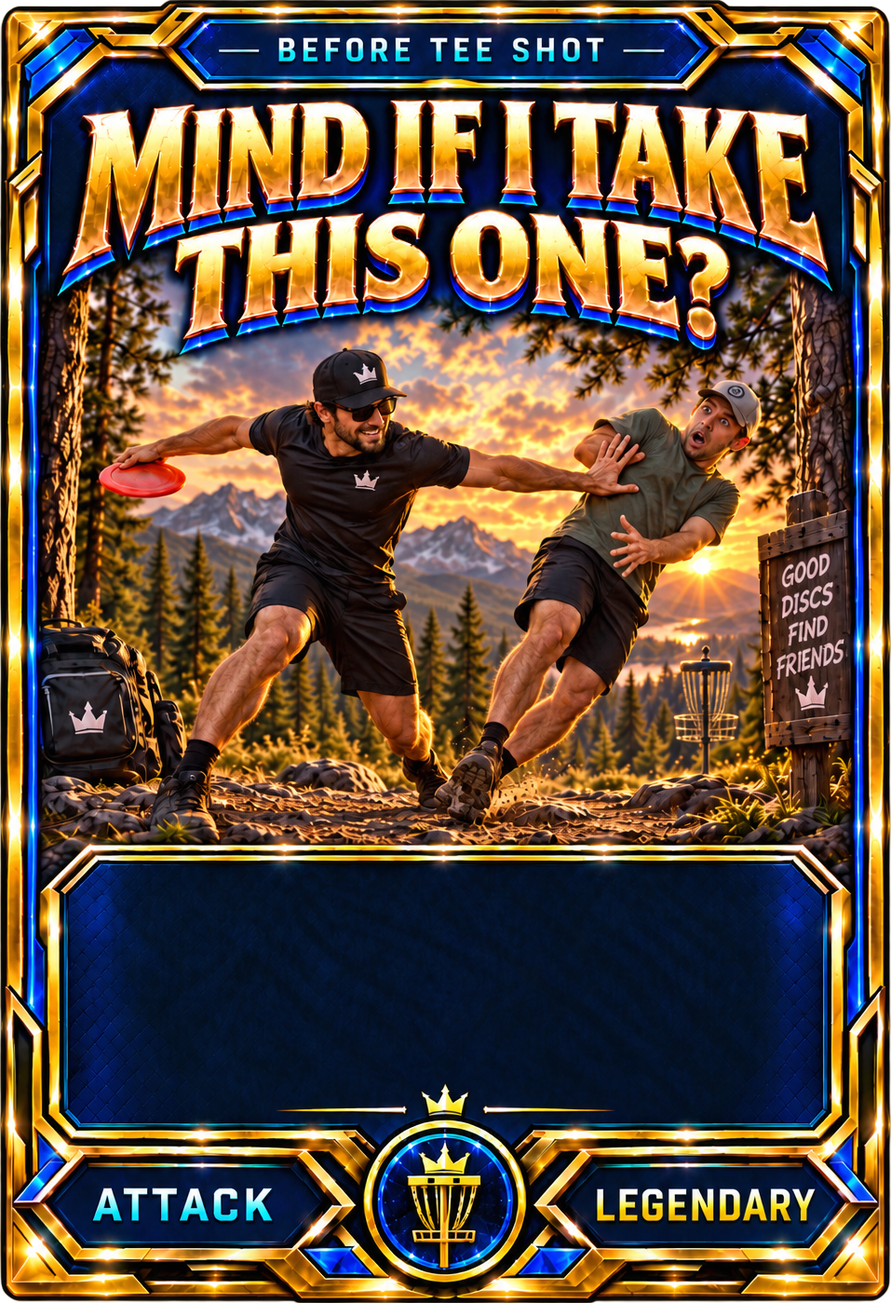
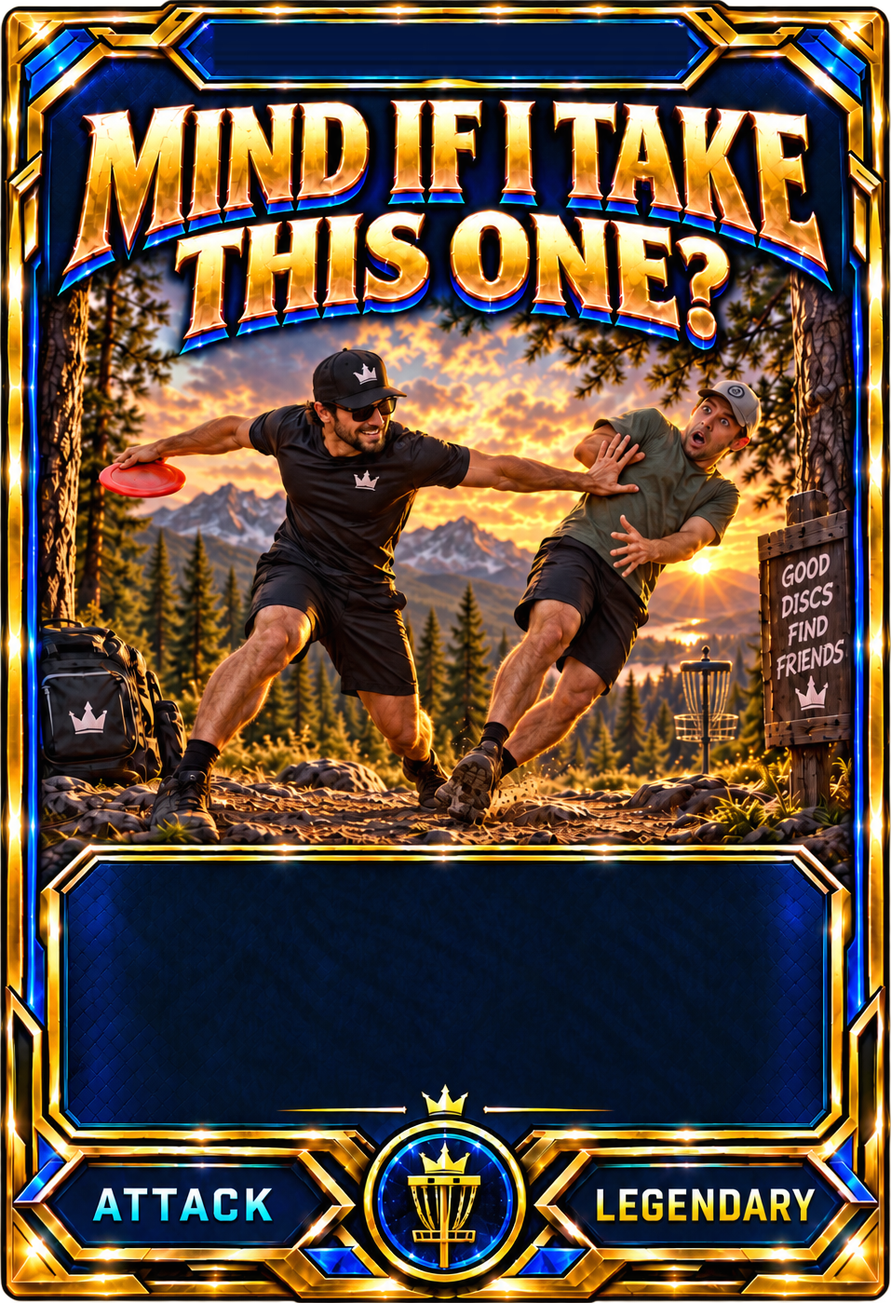
Empty the timing plate on card 61 and let the app fill it
The painting had BEFORE TEE SHOT set into the bar and the card takes a
putt now, which is a Before shot card like every other putt card in the
deck. Rather than paint new words in — wrong again the next time it is
reworded — the plate is emptied and the app draws the timing into it, the
way it already does for every frame card.

Cleared row by row from the plate's own background. Running the fill down
each column from the clean rows above and below would have kept the
plate's horizontal variation, but the lettering very nearly fills the
plate, so those rows sit against its lit rim and every sparkle on them
smeared into a vertical streak. There is far less going on across the
plate than down it, so each row's dark pixels — the background between
its letters — are the honest sample, and the shading survives.

A box can now carry its own side padding. The timing bar's padding is a
percentage, and a percentage padding is measured against the containing
block rather than the element, which suits the tier frames' full-width
bar and collapses a narrower one: this plate is 52.66% of the card with
27% a side, leaving nothing in the middle, and the timing shrank to a
pixel and a third hunting room that was not there.

Swept all 61 afterwards: nothing outside its box.

diff --git a/docs/index.html b/docs/index.html
@@ -1167,7 +1167,7 @@
 <script>
 "use strict";
 
-var DATA = {"handSize":4,"handCap":7,"maxCardsOnOnePlayerPerHole":2,"wheelCost":2,"freeSpinCard":22,"wheelExcludes":[1,3,5,6,12,13,19,20,21,22,23,24,31,34,36,38,42,43,52,55,56,61],"wheelOnly":[],"rarities":[{"id":"common","color":"#E6ECF5","weight":86},{"id":"uncommon","color":"#47D97F","weight":58},{"id":"rare","color":"#4D8BFF","weight":30},{"id":"epic","color":"#B96BFF","weight":18},{"id":"legendary","color":"#FFC72E","weight":9}],"drawLuck":{"last":1.67,"nextToLast":1.52,"midTable":1.1},"timings":["Before shot","Before tee shot","Before all tee","After throw","After all tee","After card","After a hole","Any time"],"cards":[{"id":1,"timing":"Before tee shot","kind":"attack","name":"1v1 Challenge","text":"Challenge someone. It runs until one of you beats the other's score on a hole — a tie settles nothing. The winner gets immunity from all attack cards next hole and banks a mulligan to use on any hole, whenever they need it."},{"id":2,"timing":"Before shot","kind":"attack","rarity":"rare","name":"69% OF THE SPLITS","text":"Force an opponent to straddle putt. Playable any time someone is about to throw a putter."},{"id":3,"timing":"After throw","kind":"attack","name":"AIR HORN!","text":"Heckle an opponent during one of their shots. Reveal and discard this card after."},{"id":4,"timing":"Before shot","kind":"attack","rarity":"epic","name":"Baby Discs","text":"Force an opponent to throw a mini for their upcoming drive or putt. Through the basket floor still counts as in."},{"id":5,"timing":"Any time","kind":"attack","rarity":"uncommon","name":"Bag Boy!","text":"Force an opponent to carry your bag for 3 holes! If they beat you before those 3 holes are up (1st or 2nd hole), they can play one of your cards and you take your bag back."},{"id":6,"timing":"Before tee shot","kind":"attack","rarity":"uncommon","name":"Bag Exchange!","text":"Pick a player to swap bags with. Play until the first bogey by a single player (both bogey is nothing). That player must volunteer as tribute to exchange lies with the other player the next time they go OB/hazard or miss a mando."},{"id":7,"timing":"Before shot","kind":"attack","rarity":"uncommon","name":"Bag Raid!","text":"Choose ANY disc that belongs to anyone. The target player must use that disc for their next shot."},{"id":8,"timing":"After throw","kind":"attack","rarity":"epic","name":"Big Ooof, Bud.","text":"Move an opponent's lie up to 10 paces (30 ft) in any direction, as long as it isn't out of bounds."},{"id":9,"timing":"After throw","kind":"self","rarity":"uncommon","name":"Big Putted!","text":"After making a C2 putt, everyone else must use their left hand on their next putt this hole. (Make sure everyone putts in order this hole if you want to use the card, obviously.)"},{"id":10,"timing":"Before tee shot","kind":"attack","name":"Bizarro Golf!","text":"Force an opponent to drive with a putter and putt with a driver this hole."},{"id":11,"timing":"Before all tee","kind":"self","name":"Call Your Shot","text":"Call CTP. If you win it, you're immune to cards and bad wheel effects next hole, and your next attack card hits every opponent — not you."},{"id":12,"timing":"Any time","kind":"attack","rarity":"rare","name":"Can I Borrow This Card?","text":"Pick anyone you want. Look through their cards and play one on anyone."},{"id":13,"timing":"After card","kind":"react","rarity":"epic","name":"Change Is Good","text":"Hijack a card as it's played and re-aim it at the player of your choice — including the player who played it. Doesn't work on legendary cards."},{"id":14,"timing":"Before shot","kind":"attack","name":"CHRIS SPECIAL!","text":"Force an opponent to throw a tomahawk on the upcoming drive or approach."},{"id":15,"timing":"Before shot","kind":"attack","name":"Close 'Em","text":"Force an opponent to take the next putt with their eyes closed."},{"id":16,"timing":"Before tee shot","kind":"attack","rarity":"uncommon","name":"Code Words!","text":"An opponent can't say \"yes\" or \"no\" this hole. 1 stroke penalty every time they do. ANY variation of the words yes or no counts."},{"id":17,"timing":"Before tee shot","kind":"attack","name":"Jomez Commentator","text":"Another player has to announce every shot you take this hole like they are a commentator. If they forget one, they take +1 stroke."},{"id":18,"timing":"Before tee shot","kind":"attack","rarity":"epic","name":"Dealer's Choice!","text":"Pick the discs every player tees off with this hole. (From their own bag.)"},{"id":19,"timing":"Before tee shot","kind":"dual","name":"Do Not Pass Go","text":"On another player: whoever has the shortest drive on this hole gets no free mulligan to bank while everyone else does. On yourself: play after everyone tees — if you have the shortest drive, throw your 2nd shot with the person that had the farthest drive."},{"id":20,"timing":"After throw","kind":"dual","rarity":"uncommon","name":"Doesn't Look Like a Penalty to Me","text":"Play on a shot that missed a mando or went OB. Instead of actually being OB, in a hazard, or past a mando, it can just be played where it lies, with no penalty at all."},{"id":21,"timing":"After throw","kind":"self","name":"Don't Nice Me!","text":"If any player says any form of \"nice\" as your disc is in flight and it hits a tree, you can move to where your disc landed and throw again for a free stroke."},{"id":22,"timing":"Before tee shot","kind":"group","rarity":"epic","name":"GAMBLE WHEEL!!","text":"Free spin on the GAMBLE WHEEL!! The name doesn't matter — you choose who gets the benefit or the punishment."},{"id":23,"timing":"Before shot","kind":"attack","rarity":"uncommon","name":"Easily Distracted?","text":"Everyone can do anything they want to distract a player while they are putting, but CANNOT touch the player or the disc being putted."},{"id":24,"timing":"After a hole","kind":"self","name":"FIVE FOR YOU, YOU, AND YOU!","text":"Play after you birdie a hole nobody else birdied. Everyone else owes five dollars to the pot!"},{"id":25,"timing":"After throw","kind":"self","rarity":"epic","name":"Foot Wedge!","text":"Move your own lie up to 10 paces (30 ft) in any direction."},{"id":26,"timing":"After throw","kind":"self","rarity":"uncommon","name":"GAMBLE!","text":"Take a second chance at a putt you just missed. Make it and it was a free mulligan. Miss and the second stroke counts too — play whichever disc landed farthest away, then add +1 stroke after the hole ends."},{"id":27,"timing":"After all tee","kind":"self","rarity":"epic","name":"I'll Have What He's Having","text":"After all tee shots, trade lies with an opponent of your choice."},{"id":28,"timing":"Before shot","kind":"dual","rarity":"rare","name":"Globetrotter Shit","text":"On yourself: putt behind the back at no stroke cost. On another player: they putt behind the back and it counts as a normal stroke."},{"id":29,"timing":"Before tee shot","kind":"dual","name":"GOOD GUYS VS. BAD GUYS!","text":"Ask if anyone wants to team up this hole — take your pick. (If nobody says yes, you get 1 free mulligan this hole.) If you get a partner it's 2v2 for this hole, and cards hit both players on each team when played. Winners get a banked mulligan, losers take +1 extra stroke."},{"id":30,"timing":"After throw","kind":"self","rarity":"rare","name":"If the Basket Was There It Woulda Went In","text":"If you hit any metal and it doesn't go in, it counts as a made putt."},{"id":31,"timing":"After all tee","kind":"attack","rarity":"legendary","name":"I'm In Control","text":"You decide who plays whose tee shots. More than one player can be sent to the same lie."},{"id":32,"timing":"Before tee shot","kind":"attack","rarity":"uncommon","name":"It's Like a Stranger Is Doing It!","text":"Force an opponent to take the upcoming drive with their off hand."},{"id":33,"timing":"Before tee shot","kind":"dual","name":"Lefty ON the Box","text":"Your first throw off the box is with your offhand, for free — that's throw 0. The player in last place gets it too. If 2 players are tied for last, they can flip a coin or roll dice to see who gets it."},{"id":34,"timing":"After a hole","kind":"dual","rarity":"epic","name":"Me and You","text":"On yourself: take the best score made on the hole. On another player: they take the worst score made on the hole."},{"id":35,"timing":"Before tee shot","kind":"self","rarity":"uncommon","name":"My Tee Pad Is Over Here!","text":"Use 2 of your discs to mark a new tee for yourself, up to 10 paces (30 ft) from the original. You must pick 1 player to join you — anyone but whoever is in 1st."},{"id":36,"timing":"After card","kind":"react","rarity":"rare","name":"No Way","text":"Cancel any card just played except a legendary. That card goes to the discard pile."},{"id":37,"timing":"Before tee shot","kind":"attack","rarity":"rare","name":"New mando on this hole, bud.","text":"Choose a reasonable object the target player must pass on a side you specify."},{"id":38,"timing":"Any time","kind":"dual","rarity":"epic","name":"Not Today!","text":"Remove any and all card effects currently on you, or use it on another player to cancel the effects on them."},{"id":39,"timing":"Before tee shot","kind":"attack","rarity":"uncommon","name":"One Disc Wonder!","text":"Force an opponent to play the hole with only 1 DISC this hole! (If someone already gave them THE CURD!, the TILT or the \"beater\", that counts as their 1 disc.)"},{"id":40,"timing":"Before tee shot","kind":"attack","rarity":"rare","name":"Over Sharer","text":"Give everyone a disc from your own bag to tee off with on this hole."},{"id":41,"timing":"Before all tee","kind":"attack","name":"Plant Your Feet!","text":"No run-up on everyone else's tee shot."},{"id":42,"timing":"Any time","kind":"dual","rarity":"rare","name":"Player 2's Turn!","text":"On yourself: retake any shot for free. On another player: force them to re-throw a shot — good or bad, it doesn't matter."},{"id":43,"timing":"After throw","kind":"attack","rarity":"legendary","name":"Prove It","text":"Cancel a shot an opponent just took. They throw again with a different disc of YOUR choice from any bag (not the TILT or the beater). The extra throw counts as a stroke."},{"id":44,"timing":"Before tee shot","kind":"attack","rarity":"rare","name":"Roll It!","text":"Force an opponent to throw a roller on the upcoming drive."},{"id":45,"timing":"Before shot","kind":"dual","rarity":"rare","name":"Shoe Golf","text":"On yourself: putt with your own shoe at no stroke cost. On another player: they putt with a shoe and it still counts as a stroke. If they refuse to take their shoe off, they take +1 stroke after the hole."},{"id":46,"timing":"Before shot","kind":"attack","name":"Forehand only!","text":"Force an opponent to throw a forehand on the upcoming drive or approach."},{"id":47,"timing":"Before shot","kind":"dual","rarity":"uncommon","name":"That's Definitely a Gimme","text":"Pick up a putt as a gimme, as long as it's inside C1 — you definitely woulda made it. The player in last place gets one too. If 2 players are tied for last, they can flip a coin or roll dice to see who gets it."},{"id":48,"timing":"Before tee shot","kind":"attack","rarity":"uncommon","name":"Too Many Choices","text":"Pick 2 discs out of 1 person's bag. They choose 1 to tee off with."},{"id":49,"timing":"Before tee shot","kind":"self","name":"Tree Insurance","text":"Play before your tee shot. If you hit a tree, take a free mulligan."},{"id":50,"timing":"Before shot","kind":"attack","rarity":"rare","name":"Trust Me Bro","text":"Give another player advice for their tee shot. They have to follow it as best they can. (Somewhat reasonable advice — don't tell them something like throw it backwards.)"},{"id":51,"timing":"Before shot","kind":"attack","rarity":"rare","name":"Turbo Time","text":"All opponents in C1 must turbo putt their next shot."},{"id":52,"timing":"Before tee shot","kind":"group","name":"WALK IT DOWN!!","text":"No other cards can be played once this hits the table. Everyone tees immediately from anywhere near the tee pad — no throw order. First and second to finish get birdie, third gets par, last gets bogey. No running, and no calling foot faults."},{"id":53,"timing":"After throw","kind":"attack","name":"Walk of Shame","text":"After a missed putt inside C1, that player carries their putter in either hand until they finish the next hole. (They can putt with it.) If they drop it or put it in the bag, +1 stroke."},{"id":54,"timing":"Before tee shot","kind":"attack","rarity":"legendary","name":"Your Tee Pad Is Over There!","text":"Use 2 of your discs to mark a new tee for everyone else, up to 10 paces (30 ft) from the original. They all tee from it."},{"id":55,"timing":"After throw","kind":"attack","rarity":"epic","name":"I Think It's Broke","text":"Play on another player that just hit a tree. They lose that disc — they can't throw it again for the rest of the round. If they forget and throw it again, it's +1 stroke."},{"id":56,"timing":"After card","kind":"react","rarity":"epic","name":"UNO REVERSO","text":"Reverse any cards that effect you back to the person that used the card. (Doesn't work on wheel spins or legendary cards.)"},{"id":57,"timing":"Before all tee","kind":"group","rarity":"legendary","name":"LONE WOLF!","text":"Cards played by the wolf effect everyone else! A lone wolf win gives him the right to go through everyone's cards and play 1 card from everyone's hand that effects that player. If the 3 players win then nobody cares, cuz 3 people should beat 1 every time — but they can roll dice to see who gets 1 free banked mulligan."},{"id":58,"timing":"Before tee shot","kind":"attack","rarity":"uncommon","name":"PUT EM ON TILT","text":"Force an opponent to play the entire hole with the TILT!"},{"id":59,"timing":"Before tee shot","kind":"attack","rarity":"legendary","name":"DESTINATION FUCKED!","text":"Force an opponent to play the entire hole with the \"beater\". Whoever played the card gets 30 seconds to abuse the disc before they tee off. You must tee off within 5 seconds of being handed the disc, and ZERO attempts to repair it are allowed. Otherwise +1 stroke."},{"id":60,"timing":"Before all tee","kind":"attack","rarity":"uncommon","name":"The Curd!","text":"Everyone rolls 2 dice, including whoever played this card. The lowest roll uses the cottage cheese lid as their driver this hole."},{"id":61,"timing":"Before tee shot","kind":"attack","rarity":"legendary","name":"MIND IF I TAKE THIS ONE?","text":"Take the next putt for an opponent. (No full send drivers.)"}]};
+var DATA = {"handSize":4,"handCap":7,"maxCardsOnOnePlayerPerHole":2,"wheelCost":2,"freeSpinCard":22,"wheelExcludes":[1,3,5,6,12,13,19,20,21,22,23,24,31,34,36,38,42,43,52,55,56,61],"wheelOnly":[],"rarities":[{"id":"common","color":"#E6ECF5","weight":86},{"id":"uncommon","color":"#47D97F","weight":58},{"id":"rare","color":"#4D8BFF","weight":30},{"id":"epic","color":"#B96BFF","weight":18},{"id":"legendary","color":"#FFC72E","weight":9}],"drawLuck":{"last":1.67,"nextToLast":1.52,"midTable":1.1},"timings":["Before shot","Before tee shot","Before all tee","After throw","After all tee","After card","After a hole","Any time"],"cards":[{"id":1,"timing":"Before tee shot","kind":"attack","name":"1v1 Challenge","text":"Challenge someone. It runs until one of you beats the other's score on a hole — a tie settles nothing. The winner gets immunity from all attack cards next hole and banks a mulligan to use on any hole, whenever they need it."},{"id":2,"timing":"Before shot","kind":"attack","rarity":"rare","name":"69% OF THE SPLITS","text":"Force an opponent to straddle putt. Playable any time someone is about to throw a putter."},{"id":3,"timing":"After throw","kind":"attack","name":"AIR HORN!","text":"Heckle an opponent during one of their shots. Reveal and discard this card after."},{"id":4,"timing":"Before shot","kind":"attack","rarity":"epic","name":"Baby Discs","text":"Force an opponent to throw a mini for their upcoming drive or putt. Through the basket floor still counts as in."},{"id":5,"timing":"Any time","kind":"attack","rarity":"uncommon","name":"Bag Boy!","text":"Force an opponent to carry your bag for 3 holes! If they beat you before those 3 holes are up (1st or 2nd hole), they can play one of your cards and you take your bag back."},{"id":6,"timing":"Before tee shot","kind":"attack","rarity":"uncommon","name":"Bag Exchange!","text":"Pick a player to swap bags with. Play until the first bogey by a single player (both bogey is nothing). That player must volunteer as tribute to exchange lies with the other player the next time they go OB/hazard or miss a mando."},{"id":7,"timing":"Before shot","kind":"attack","rarity":"uncommon","name":"Bag Raid!","text":"Choose ANY disc that belongs to anyone. The target player must use that disc for their next shot."},{"id":8,"timing":"After throw","kind":"attack","rarity":"epic","name":"Big Ooof, Bud.","text":"Move an opponent's lie up to 10 paces (30 ft) in any direction, as long as it isn't out of bounds."},{"id":9,"timing":"After throw","kind":"self","rarity":"uncommon","name":"Big Putted!","text":"After making a C2 putt, everyone else must use their left hand on their next putt this hole. (Make sure everyone putts in order this hole if you want to use the card, obviously.)"},{"id":10,"timing":"Before tee shot","kind":"attack","name":"Bizarro Golf!","text":"Force an opponent to drive with a putter and putt with a driver this hole."},{"id":11,"timing":"Before all tee","kind":"self","name":"Call Your Shot","text":"Call CTP. If you win it, you're immune to cards and bad wheel effects next hole, and your next attack card hits every opponent — not you."},{"id":12,"timing":"Any time","kind":"attack","rarity":"rare","name":"Can I Borrow This Card?","text":"Pick anyone you want. Look through their cards and play one on anyone."},{"id":13,"timing":"After card","kind":"react","rarity":"epic","name":"Change Is Good","text":"Hijack a card as it's played and re-aim it at the player of your choice — including the player who played it. Doesn't work on legendary cards."},{"id":14,"timing":"Before shot","kind":"attack","name":"CHRIS SPECIAL!","text":"Force an opponent to throw a tomahawk on the upcoming drive or approach."},{"id":15,"timing":"Before shot","kind":"attack","name":"Close 'Em","text":"Force an opponent to take the next putt with their eyes closed."},{"id":16,"timing":"Before tee shot","kind":"attack","rarity":"uncommon","name":"Code Words!","text":"An opponent can't say \"yes\" or \"no\" this hole. 1 stroke penalty every time they do. ANY variation of the words yes or no counts."},{"id":17,"timing":"Before tee shot","kind":"attack","name":"Jomez Commentator","text":"Another player has to announce every shot you take this hole like they are a commentator. If they forget one, they take +1 stroke."},{"id":18,"timing":"Before tee shot","kind":"attack","rarity":"epic","name":"Dealer's Choice!","text":"Pick the discs every player tees off with this hole. (From their own bag.)"},{"id":19,"timing":"Before tee shot","kind":"dual","name":"Do Not Pass Go","text":"On another player: whoever has the shortest drive on this hole gets no free mulligan to bank while everyone else does. On yourself: play after everyone tees — if you have the shortest drive, throw your 2nd shot with the person that had the farthest drive."},{"id":20,"timing":"After throw","kind":"dual","rarity":"uncommon","name":"Doesn't Look Like a Penalty to Me","text":"Play on a shot that missed a mando or went OB. Instead of actually being OB, in a hazard, or past a mando, it can just be played where it lies, with no penalty at all."},{"id":21,"timing":"After throw","kind":"self","name":"Don't Nice Me!","text":"If any player says any form of \"nice\" as your disc is in flight and it hits a tree, you can move to where your disc landed and throw again for a free stroke."},{"id":22,"timing":"Before tee shot","kind":"group","rarity":"epic","name":"GAMBLE WHEEL!!","text":"Free spin on the GAMBLE WHEEL!! The name doesn't matter — you choose who gets the benefit or the punishment."},{"id":23,"timing":"Before shot","kind":"attack","rarity":"uncommon","name":"Easily Distracted?","text":"Everyone can do anything they want to distract a player while they are putting, but CANNOT touch the player or the disc being putted."},{"id":24,"timing":"After a hole","kind":"self","name":"FIVE FOR YOU, YOU, AND YOU!","text":"Play after you birdie a hole nobody else birdied. Everyone else owes five dollars to the pot!"},{"id":25,"timing":"After throw","kind":"self","rarity":"epic","name":"Foot Wedge!","text":"Move your own lie up to 10 paces (30 ft) in any direction."},{"id":26,"timing":"After throw","kind":"self","rarity":"uncommon","name":"GAMBLE!","text":"Take a second chance at a putt you just missed. Make it and it was a free mulligan. Miss and the second stroke counts too — play whichever disc landed farthest away, then add +1 stroke after the hole ends."},{"id":27,"timing":"After all tee","kind":"self","rarity":"epic","name":"I'll Have What He's Having","text":"After all tee shots, trade lies with an opponent of your choice."},{"id":28,"timing":"Before shot","kind":"dual","rarity":"rare","name":"Globetrotter Shit","text":"On yourself: putt behind the back at no stroke cost. On another player: they putt behind the back and it counts as a normal stroke."},{"id":29,"timing":"Before tee shot","kind":"dual","name":"GOOD GUYS VS. BAD GUYS!","text":"Ask if anyone wants to team up this hole — take your pick. (If nobody says yes, you get 1 free mulligan this hole.) If you get a partner it's 2v2 for this hole, and cards hit both players on each team when played. Winners get a banked mulligan, losers take +1 extra stroke."},{"id":30,"timing":"After throw","kind":"self","rarity":"rare","name":"If the Basket Was There It Woulda Went In","text":"If you hit any metal and it doesn't go in, it counts as a made putt."},{"id":31,"timing":"After all tee","kind":"attack","rarity":"legendary","name":"I'm In Control","text":"You decide who plays whose tee shots. More than one player can be sent to the same lie."},{"id":32,"timing":"Before tee shot","kind":"attack","rarity":"uncommon","name":"It's Like a Stranger Is Doing It!","text":"Force an opponent to take the upcoming drive with their off hand."},{"id":33,"timing":"Before tee shot","kind":"dual","name":"Lefty ON the Box","text":"Your first throw off the box is with your offhand, for free — that's throw 0. The player in last place gets it too. If 2 players are tied for last, they can flip a coin or roll dice to see who gets it."},{"id":34,"timing":"After a hole","kind":"dual","rarity":"epic","name":"Me and You","text":"On yourself: take the best score made on the hole. On another player: they take the worst score made on the hole."},{"id":35,"timing":"Before tee shot","kind":"self","rarity":"uncommon","name":"My Tee Pad Is Over Here!","text":"Use 2 of your discs to mark a new tee for yourself, up to 10 paces (30 ft) from the original. You must pick 1 player to join you — anyone but whoever is in 1st."},{"id":36,"timing":"After card","kind":"react","rarity":"rare","name":"No Way","text":"Cancel any card just played except a legendary. That card goes to the discard pile."},{"id":37,"timing":"Before tee shot","kind":"attack","rarity":"rare","name":"New mando on this hole, bud.","text":"Choose a reasonable object the target player must pass on a side you specify."},{"id":38,"timing":"Any time","kind":"dual","rarity":"epic","name":"Not Today!","text":"Remove any and all card effects currently on you, or use it on another player to cancel the effects on them."},{"id":39,"timing":"Before tee shot","kind":"attack","rarity":"uncommon","name":"One Disc Wonder!","text":"Force an opponent to play the hole with only 1 DISC this hole! (If someone already gave them THE CURD!, the TILT or the \"beater\", that counts as their 1 disc.)"},{"id":40,"timing":"Before tee shot","kind":"attack","rarity":"rare","name":"Over Sharer","text":"Give everyone a disc from your own bag to tee off with on this hole."},{"id":41,"timing":"Before all tee","kind":"attack","name":"Plant Your Feet!","text":"No run-up on everyone else's tee shot."},{"id":42,"timing":"Any time","kind":"dual","rarity":"rare","name":"Player 2's Turn!","text":"On yourself: retake any shot for free. On another player: force them to re-throw a shot — good or bad, it doesn't matter."},{"id":43,"timing":"After throw","kind":"attack","rarity":"legendary","name":"Prove It","text":"Cancel a shot an opponent just took. They throw again with a different disc of YOUR choice from any bag (not the TILT or the beater). The extra throw counts as a stroke."},{"id":44,"timing":"Before tee shot","kind":"attack","rarity":"rare","name":"Roll It!","text":"Force an opponent to throw a roller on the upcoming drive."},{"id":45,"timing":"Before shot","kind":"dual","rarity":"rare","name":"Shoe Golf","text":"On yourself: putt with your own shoe at no stroke cost. On another player: they putt with a shoe and it still counts as a stroke. If they refuse to take their shoe off, they take +1 stroke after the hole."},{"id":46,"timing":"Before shot","kind":"attack","name":"Forehand only!","text":"Force an opponent to throw a forehand on the upcoming drive or approach."},{"id":47,"timing":"Before shot","kind":"dual","rarity":"uncommon","name":"That's Definitely a Gimme","text":"Pick up a putt as a gimme, as long as it's inside C1 — you definitely woulda made it. The player in last place gets one too. If 2 players are tied for last, they can flip a coin or roll dice to see who gets it."},{"id":48,"timing":"Before tee shot","kind":"attack","rarity":"uncommon","name":"Too Many Choices","text":"Pick 2 discs out of 1 person's bag. They choose 1 to tee off with."},{"id":49,"timing":"Before tee shot","kind":"self","name":"Tree Insurance","text":"Play before your tee shot. If you hit a tree, take a free mulligan."},{"id":50,"timing":"Before shot","kind":"attack","rarity":"rare","name":"Trust Me Bro","text":"Give another player advice for their tee shot. They have to follow it as best they can. (Somewhat reasonable advice — don't tell them something like throw it backwards.)"},{"id":51,"timing":"Before shot","kind":"attack","rarity":"rare","name":"Turbo Time","text":"All opponents in C1 must turbo putt their next shot."},{"id":52,"timing":"Before tee shot","kind":"group","name":"WALK IT DOWN!!","text":"No other cards can be played once this hits the table. Everyone tees immediately from anywhere near the tee pad — no throw order. First and second to finish get birdie, third gets par, last gets bogey. No running, and no calling foot faults."},{"id":53,"timing":"After throw","kind":"attack","name":"Walk of Shame","text":"After a missed putt inside C1, that player carries their putter in either hand until they finish the next hole. (They can putt with it.) If they drop it or put it in the bag, +1 stroke."},{"id":54,"timing":"Before tee shot","kind":"attack","rarity":"legendary","name":"Your Tee Pad Is Over There!","text":"Use 2 of your discs to mark a new tee for everyone else, up to 10 paces (30 ft) from the original. They all tee from it."},{"id":55,"timing":"After throw","kind":"attack","rarity":"epic","name":"I Think It's Broke","text":"Play on another player that just hit a tree. They lose that disc — they can't throw it again for the rest of the round. If they forget and throw it again, it's +1 stroke."},{"id":56,"timing":"After card","kind":"react","rarity":"epic","name":"UNO REVERSO","text":"Reverse any cards that effect you back to the person that used the card. (Doesn't work on wheel spins or legendary cards.)"},{"id":57,"timing":"Before all tee","kind":"group","rarity":"legendary","name":"LONE WOLF!","text":"Cards played by the wolf effect everyone else! A lone wolf win gives him the right to go through everyone's cards and play 1 card from everyone's hand that effects that player. If the 3 players win then nobody cares, cuz 3 people should beat 1 every time — but they can roll dice to see who gets 1 free banked mulligan."},{"id":58,"timing":"Before tee shot","kind":"attack","rarity":"uncommon","name":"PUT EM ON TILT","text":"Force an opponent to play the entire hole with the TILT!"},{"id":59,"timing":"Before tee shot","kind":"attack","rarity":"legendary","name":"DESTINATION FUCKED!","text":"Force an opponent to play the entire hole with the \"beater\". Whoever played the card gets 30 seconds to abuse the disc before they tee off. You must tee off within 5 seconds of being handed the disc, and ZERO attempts to repair it are allowed. Otherwise +1 stroke."},{"id":60,"timing":"Before all tee","kind":"attack","rarity":"uncommon","name":"The Curd!","text":"Everyone rolls 2 dice, including whoever played this card. The lowest roll uses the cottage cheese lid as their driver this hole."},{"id":61,"timing":"Before shot","kind":"attack","rarity":"legendary","name":"MIND IF I TAKE THIS ONE?","text":"Take the next putt for an opponent. (No full send drivers.)"}]};
 var CARDS = DATA.cards;
 var BY_ID = {};
 CARDS.forEach(function (c) { BY_ID[c.id] = c; });
@@ -1217,7 +1217,7 @@ var BUILT_IN_COURSES = [{"name":"W.S. Gibbs Memorial Disc Golf Course — White/
 var CARD_ART = {"31":"assets/card_31.png","43":"assets/card_43.png","54":"assets/card_54.png","57":"assets/card_57.png","59":"assets/card_59.png","61":"assets/card_61.png"};
 /* Where a painting leaves an empty panel for the card's own words, as
    fractions of the picture. Art without one keeps whatever it has painted. */
-var ART_BOXES = {"31":{"x":0.1065,"y":0.6841,"w":0.786,"h":0.1319,"ar":0.7347},"43":{"x":0.1054,"y":0.7005,"w":0.7902,"h":0.1171,"ar":0.7242},"54":{"x":0.1065,"y":0.6968,"w":0.7889,"h":0.1286,"ar":0.723},"57":{"x":0.1061,"y":0.6655,"w":0.7877,"h":0.1597,"ar":0.7453},"59":{"x":0.1037,"y":0.7018,"w":0.7916,"h":0.1287,"ar":0.7187},"61":{"x":0.1014,"y":0.6698,"w":0.7973,"h":0.1565,"ar":0.6841}};
+var ART_BOXES = {"31":{"x":0.1065,"y":0.6841,"w":0.786,"h":0.1319,"ar":0.7347},"43":{"x":0.1054,"y":0.7005,"w":0.7902,"h":0.1171,"ar":0.7242},"54":{"x":0.1065,"y":0.6968,"w":0.7889,"h":0.1286,"ar":0.723},"57":{"x":0.1061,"y":0.6655,"w":0.7877,"h":0.1597,"ar":0.7453},"59":{"x":0.1037,"y":0.7018,"w":0.7916,"h":0.1287,"ar":0.7187},"61":{"ar":0.6841,"text":{"x":0.1014,"y":0.6698,"w":0.7973,"h":0.1565},"timing":{"x":0.2424,"y":0.0214,"w":0.5266,"h":0.03,"pad":0.1115}}};
 /* One frame per rarity, worn by every card of that rarity with no painting of
    its own. The same shape as an art box, plus the picture to wear. */
 var ART_FRAMES = {"common":{"image":"assets/frame_common.png","ar":0.742,"timing":{"x":0.058,"y":0.0445,"w":0.8841,"h":0.0328},"title":{"x":0.058,"y":0.0787,"w":0.8841,"h":0.0897},"text":{"x":0.0914,"y":0.1844,"w":0.8173,"h":0.5729},"kind":{"x":0.0707,"y":0.8732,"w":0.2682,"h":0.0641}},"epic":{"image":"assets/frame_epic.png","ar":0.7082,"timing":{"x":0.0851,"y":0.0938,"w":0.8308,"h":0.026},"title":{"x":0.0851,"y":0.1212,"w":0.8308,"h":0.0726},"text":{"x":0.118,"y":0.2075,"w":0.765,"h":0.4637},"kind":{"x":0.0783,"y":0.8233,"w":0.2573,"h":0.0527}},"rare":{"image":"assets/frame_rare.png","ar":0.7448,"timing":{"x":0.0777,"y":0.0742,"w":0.8436,"h":0.0282},"title":{"x":0.0777,"y":0.1039,"w":0.8436,"h":0.0786},"text":{"x":0.1116,"y":0.1966,"w":0.7759,"h":0.5007},"kind":{"x":0.0657,"y":0.8242,"w":0.259,"h":0.0645}},"uncommon":{"image":"assets/frame_uncommon.png","ar":0.7502,"timing":{"x":0.0601,"y":0.0554,"w":0.8798,"h":0.0318},"title":{"x":0.0601,"y":0.088,"w":0.8798,"h":0.0872},"text":{"x":0.0936,"y":0.1914,"w":0.8128,"h":0.5565},"kind":{"x":0.0709,"y":0.8744,"w":0.2542,"h":0.0628}}};
@@ -1345,10 +1345,20 @@ function artSlots(id) {
   if (b.text || b.title || b.timing || b.kind) return b;
   return { ar: b.ar, text: b };
 }
-/* Where a box sits, as a percentage rectangle. */
+/*
+ * Where a box sits, as a percentage rectangle.
+ *
+ * A box may also carry its own side padding, and does when its bar is narrower
+ * than the tier frames the stylesheet's padding was written for. Given as a
+ * fraction of the card, because that is what a percentage padding is measured
+ * against — the containing block, not the element it is on.
+ */
 function boxStyle(b) {
   return "left:" + (b.x * 100).toFixed(2) + "%;top:" + (b.y * 100).toFixed(2) +
-    "%;width:" + (b.w * 100).toFixed(2) + "%;height:" + (b.h * 100).toFixed(2) + "%";
+    "%;width:" + (b.w * 100).toFixed(2) + "%;height:" + (b.h * 100).toFixed(2) + "%" +
+    (b.pad == null ? "" :
+      ";padding-left:" + (b.pad * 100).toFixed(2) +
+      "%;padding-right:" + (b.pad * 100).toFixed(2) + "%");
 }
 
 /* The picture a card shows and the bars written into it: its own painting when
@@ -1444,7 +1454,7 @@ applyCharacterNames();
  * plus the time it was built. Shown at the foot of the menu and of Settings, so
  * the group can hold two phones side by side and see who needs to reload.
  */
-var APP_VERSION = "v1.404 · 7 Sep 19:51";
+var APP_VERSION = "v1.406 · 7 Sep 20:01";
 function versionLine() {
   // Just the number on screen — the full build stamp stays in APP_VERSION for
   // the lobby's stale-phone check. The arrow beside it goes and looks for a

diff --git a/app/src/main/java/com/chainreaction/data/GameCard.kt b/app/src/main/java/com/chainreaction/data/GameCard.kt
@@ -137,7 +137,7 @@ object CardDeck {
         GameCard(58, "Before tee shot", CardKind.ATTACK, "PUT EM ON TILT", "Force an opponent to play the entire hole with the TILT!"),
         GameCard(59, "Before tee shot", CardKind.ATTACK, "DESTINATION FUCKED!", "Force an opponent to play the entire hole with the \"beater\". Whoever played the card gets 30 seconds to abuse the disc before they tee off. You must tee off within 5 seconds of being handed the disc, and ZERO attempts to repair it are allowed. Otherwise +1 stroke."),
         GameCard(60, "Before all tee", CardKind.ATTACK, "The Curd!", "Everyone rolls 2 dice, including whoever played this card. The lowest roll uses the cottage cheese lid as their driver this hole."),
-        GameCard(61, "Before tee shot", CardKind.ATTACK, "MIND IF I TAKE THIS ONE?", "Take the next putt for an opponent. (No full send drivers.)"),
+        GameCard(61, "Before shot", CardKind.ATTACK, "MIND IF I TAKE THIS ONE?", "Take the next putt for an opponent. (No full send drivers.)"),
     )
 
     private val byId: Map<Int, GameCard> = ALL.associateBy { it.id }

diff --git a/web/template.html b/web/template.html
@@ -1345,10 +1345,20 @@ function artSlots(id) {
   if (b.text || b.title || b.timing || b.kind) return b;
   return { ar: b.ar, text: b };
 }
-/* Where a box sits, as a percentage rectangle. */
+/*
+ * Where a box sits, as a percentage rectangle.
+ *
+ * A box may also carry its own side padding, and does when its bar is narrower
+ * than the tier frames the stylesheet's padding was written for. Given as a
+ * fraction of the card, because that is what a percentage padding is measured
+ * against — the containing block, not the element it is on.
+ */
 function boxStyle(b) {
   return "left:" + (b.x * 100).toFixed(2) + "%;top:" + (b.y * 100).toFixed(2) +
-    "%;width:" + (b.w * 100).toFixed(2) + "%;height:" + (b.h * 100).toFixed(2) + "%";
+    "%;width:" + (b.w * 100).toFixed(2) + "%;height:" + (b.h * 100).toFixed(2) + "%" +
+    (b.pad == null ? "" :
+      ";padding-left:" + (b.pad * 100).toFixed(2) +
+      "%;padding-right:" + (b.pad * 100).toFixed(2) + "%");
 }
 
 /* The picture a card shows and the bars written into it: its own painting when

diff --git a/docs/sw.js b/docs/sw.js
@@ -1,5 +1,5 @@
 /* Generated by web/build.js — do not edit. */
-const PAGE_CACHE = "chainreaction-page-8c47fc2afbb5";
+const PAGE_CACHE = "chainreaction-page-b1cdc22e5c94";
 /* Named once and kept. What is in it is decided file by file, below. */
 const ASSET_CACHE = "chainreaction-assets";
 const PAGE_FILES = [
@@ -38,7 +38,7 @@ const ASSET_HASHES = {
   "assets/card_54.png": "4a8e4a63b747",
   "assets/card_57.png": "4878d6ec0045",
   "assets/card_59.png": "6a19f29f2d43",
-  "assets/card_61.png": "a9cdd0b7c102",
+  "assets/card_61.png": "b9316da3928f",
   "assets/character_01.png": "89a32300c7f8",
   "assets/character_02.png": "322847432237",
   "assets/character_03.png": "4a79a75904d7",

diff --git a/BUILD_SPEC.md b/BUILD_SPEC.md
@@ -198,7 +198,7 @@ Suggested palette: deep pine ground (`#0C1A14`), panels (`#132A21`), muted sage 
     { "id": 58, "timing": "Before tee shot", "kind": "attack", "rarity": "uncommon", "name": "PUT EM ON TILT", "text": "Force an opponent to play the entire hole with the TILT!" },
     { "id": 59, "timing": "Before tee shot", "kind": "attack", "rarity": "legendary", "name": "DESTINATION FUCKED!", "text": "Force an opponent to play the entire hole with the \"beater\". Whoever played the card gets 30 seconds to abuse the disc before they tee off. You must tee off within 5 seconds of being handed the disc, and ZERO attempts to repair it are allowed. Otherwise +1 stroke." },
     { "id": 60, "timing": "Before all tee", "kind": "attack", "rarity": "uncommon", "name": "The Curd!", "text": "Everyone rolls 2 dice, including whoever played this card. The lowest roll uses the cottage cheese lid as their driver this hole." },
-    { "id": 61, "timing": "Before tee shot", "kind": "attack", "rarity": "legendary", "name": "MIND IF I TAKE THIS ONE?", "text": "Take the next putt for an opponent. (No full send drivers.)" }
+    { "id": 61, "timing": "Before shot", "kind": "attack", "rarity": "legendary", "name": "MIND IF I TAKE THIS ONE?", "text": "Take the next putt for an opponent. (No full send drivers.)" }
   ]
 }
 ```
